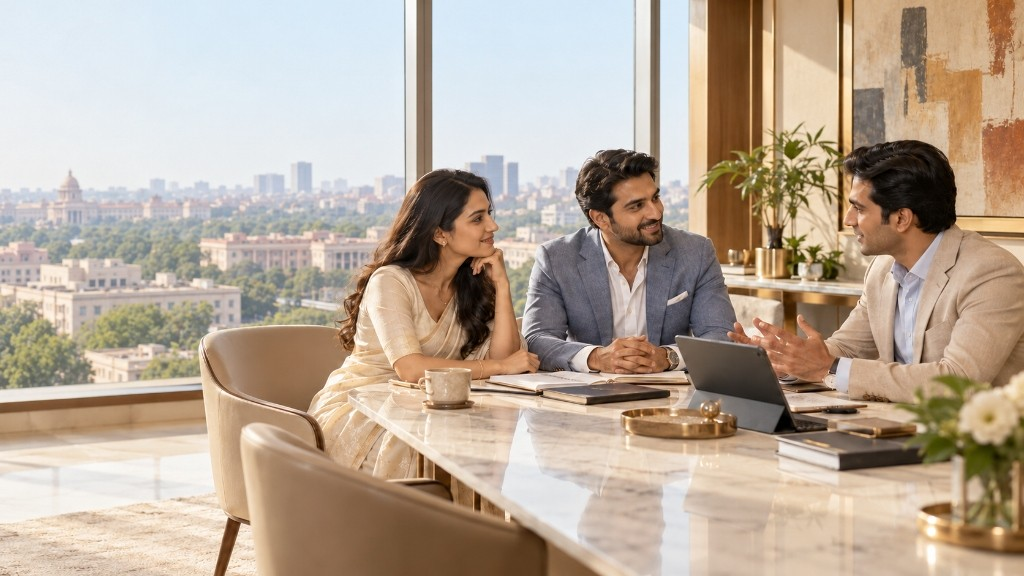
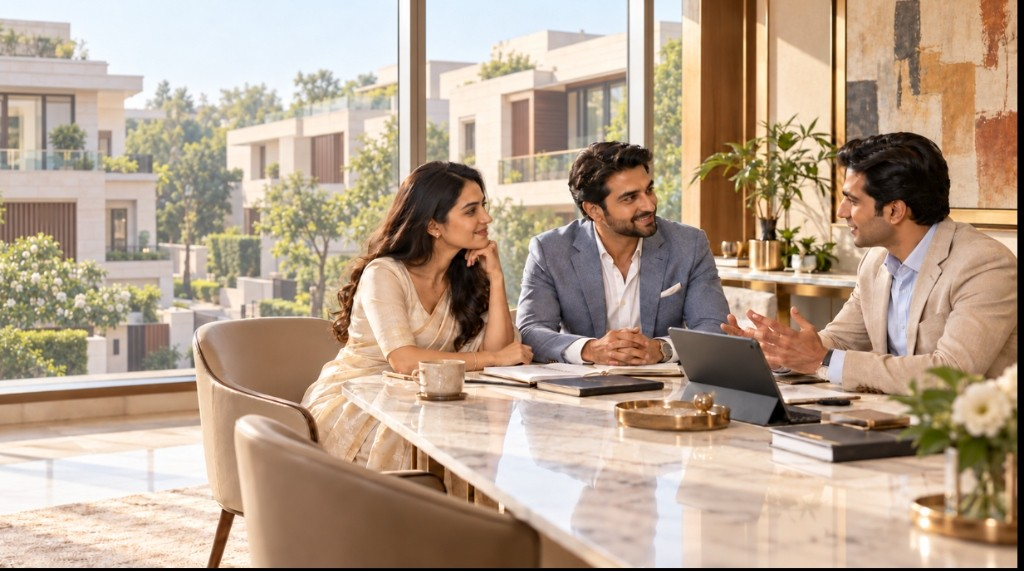
Update Our Story image and match photo height to content paragraphs

diff --git a/styles.css b/styles.css
@@ -1091,12 +1091,15 @@ body.page-light .nav-logo-sub {
 }
 .about-grid {
   display: grid;
-  grid-template-columns: 1.15fr 1fr;
+  grid-template-columns: 1fr 1fr;
   gap: clamp(32px, 4vw, 56px);
-  align-items: center;
+  align-items: stretch;
 }
 .about-visual {
   position: relative;
+  display: flex;
+  flex-direction: column;
+  height: 100%;
 }
 .about-image-wrap {
   position: relative;
@@ -1105,15 +1108,21 @@ body.page-light .nav-logo-sub {
   border: 1px solid rgba(200, 169, 110, 0.4);
   box-shadow: 0 24px 60px rgba(0, 0, 0, 0.65), 0 0 30px rgba(200, 169, 110, 0.1);
   background: var(--navy-surface);
-  aspect-ratio: 16 / 9;
+  flex: 1 1 auto;
+  height: 100%;
+  min-height: 440px;
+}
+.about-image-wrap picture {
+  display: block;
+  width: 100%;
+  height: 100%;
 }
 .about-image-wrap img,
 .about-clean-img {
   width: 100%;
   height: 100%;
-  aspect-ratio: 16 / 9;
   object-fit: cover;
-  object-position: center;
+  object-position: center 30%;
   display: block;
   filter: brightness(1.02) contrast(1.05);
   transition: transform var(--duration-slow) var(--ease-out);
@@ -6321,9 +6330,12 @@ body.page-light .nav-logo-sub {
   .service-detail-grid, .service-detail-grid.reverse { grid-template-columns: 1fr; gap: var(--space-8); }
   .service-detail-grid.reverse .service-detail-media { order: 1; }
   .service-detail-grid.reverse .service-detail-content { order: 2; }
-  .about-grid { grid-template-columns: 1fr; gap: var(--space-12); }
-  .about-float-stat { display: none; }
+  .about-grid { grid-template-columns: 1fr; gap: var(--space-12); align-items: start; }
+  .about-visual { height: auto; }
+  .about-image-wrap { height: auto; min-height: unset; aspect-ratio: 16 / 9; }
+  .about-image-wrap picture { height: 100%; }
   .about-image-wrap img { height: 100%; aspect-ratio: 16 / 9; }
+  .about-float-stat { display: none; }
   .services-grid { grid-template-columns: repeat(2, 1fr); }
   .stats-grid { grid-template-columns: repeat(2, 1fr); }
   .stat-item:nth-child(2) { border-right: none; }
